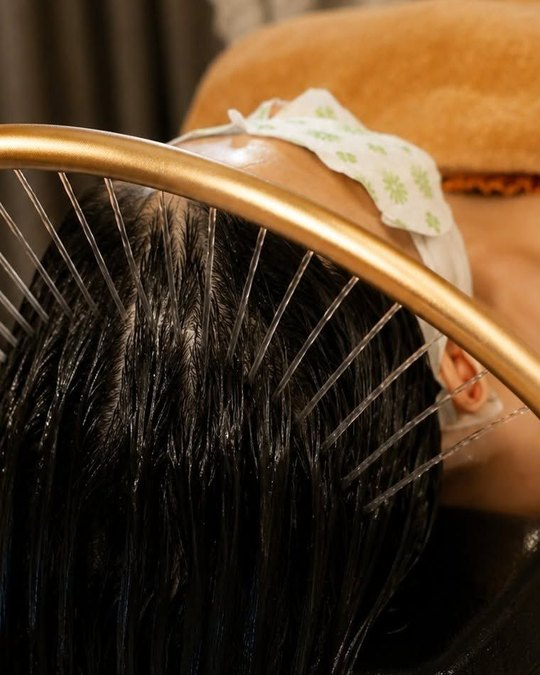
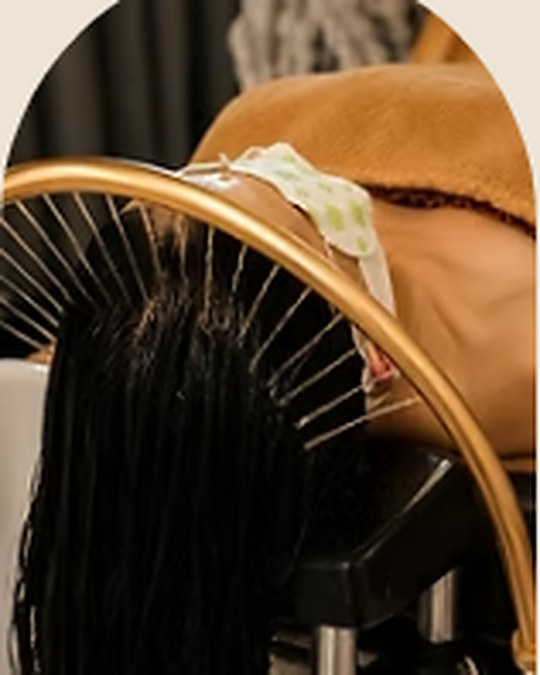
What happens section: use the brand's own ritual photos
Claude-Session: https://claude.ai/code/session_01DdZmgJjXHVTRRywqeHU6iL

diff --git a/index.html b/index.html
@@ -288,25 +288,25 @@
     </div>
     <ol class="ritual-steps">
         <li class="ritual-step">
-          <img src="assets/img/ritual/foot-bath.jpg" alt="Feet resting in a warm herbal foot bath" loading="lazy" width="540" height="675">
+          <img src="assets/img/ritual/foot-bath.jpg" alt="Feet resting in a warm herbal foot bath with orange slices" loading="lazy" width="540" height="675">
           <p class="ritual-num"><span>01</span></p>
           <h3>The foot bath</h3>
-          <p>Warm water, herbs and Epsom salts while you settle in. Your body starts to slow down before we touch your hair.</p>
+          <p>Warm water, herbs and fresh citrus while you settle in. Your body starts to slow down before we touch your hair.</p>
         </li>
         <li class="ritual-step">
-          <img src="assets/img/ritual/facial.jpg" alt="Guest relaxing during a facial with jade rollers" loading="lazy" width="540" height="675">
+          <img src="assets/img/ritual/settle-in.jpg" alt="Guest lying back with eyes closed under a Gold Class towel" loading="lazy" width="540" height="675">
           <p class="ritual-num"><span>02</span></p>
-          <h3>Steam and facial</h3>
-          <p>Gentle steam opens the skin, then a radiance facial cleanses and refreshes while you rest.</p>
+          <h3>Settle in</h3>
+          <p>Lie back, close your eyes and let us take over. Gentle steam and a radiance facial begin while you rest.</p>
         </li>
         <li class="ritual-step">
-          <img src="assets/img/ritual/scalp.jpg" alt="Therapist massaging the scalp during the shampoo" loading="lazy" width="540" height="675">
+          <img src="assets/img/ritual/cleanse.jpg" alt="Therapist working shampoo foam through the hair" loading="lazy" width="540" height="675">
           <p class="ritual-num"><span>03</span></p>
           <h3>Cleanse and scalp massage</h3>
           <p>A shampoo matched to your scalp, worked in slowly with a deep, unhurried scalp massage.</p>
         </li>
         <li class="ritual-step">
-          <img src="assets/img/ritual/halo.jpg" alt="Waterfall halo pouring warm water over the scalp" loading="lazy" width="540" height="675">
+          <img src="assets/img/ritual/halo.jpg" alt="Gold waterfall halo pouring warm water over the scalp" loading="lazy" width="540" height="675">
           <p class="ritual-num"><span>04</span></p>
           <h3>The waterfall halo</h3>
           <p>Warm water falls in fine streams across your scalp, again and again. The moment most guests remember.</p>
@@ -315,10 +315,10 @@
           <img src="assets/img/ritual/massage.jpg" alt="Therapist massaging the neck and shoulders" loading="lazy" width="540" height="675">
           <p class="ritual-num"><span>05</span></p>
           <h3>The massage</h3>
-          <p>Neck, shoulders and arms, eased with slow, steady pressure. The 90 minute ritual gives you more of it.</p>
+          <p>Head, neck and shoulders, eased with slow, steady pressure. The 90 minute ritual gives you more of it.</p>
         </li>
     </ol>
-    <p class="fine ritual-fine">Shown for the 60 and 90 minute rituals. The 30 minute Essential focuses on the cleanse, scalp massage, neck massage and waterfall halo.</p>
+    <p class="fine ritual-fine">Shown for the 60 and 90 minute rituals. The 30 minute Essential focuses on the cleanse, scalp massage, neck massage, waterfall halo and blow dry.</p>
 
     <div class="section-head after-head">
       <div>
@@ -329,19 +329,19 @@
     </div>
     <ul class="after-list">
         <li class="after-item">
-          <img src="assets/img/ritual/blow-dry.jpg" alt="Guest having her hair blow dried after the head spa" loading="lazy" width="540" height="675">
+          <img src="assets/img/ritual/blow-dry.jpg" alt="Guest smiling while her hair is blow dried" loading="lazy" width="540" height="675">
           <h3>Dried and finished.</h3>
           <p>A gentle ionic blow dry, so you leave with clean, soft, finished hair.</p>
         </li>
         <li class="after-item">
-          <img src="assets/img/ritual/vanity.jpg" alt="Guests at the vanity after their treatment" loading="lazy" width="540" height="675">
-          <h3>Time at the vanity.</h3>
-          <p>Brush, style and freshen up at our vanity before you head back into your day.</p>
+          <img src="assets/img/ritual/tea.jpg" alt="Tea being poured into a glass cup" loading="lazy" width="540" height="675">
+          <h3>A cup of tea.</h3>
+          <p>Sit for a few quiet minutes with warm tea while you come back to the day.</p>
         </li>
         <li class="after-item">
-          <img src="assets/img/ritual/after.jpg" alt="Guest smiling in the mirror after her head spa" loading="lazy" width="540" height="675">
-          <h3>Walk out lighter.</h3>
-          <p>Calmer, glowing and cared for. Ready for the rest of your day.</p>
+          <img src="assets/img/ritual/aftercare.jpg" alt="Professional hair and skin care products" loading="lazy" width="540" height="675">
+          <h3>Aftercare, worked in.</h3>
+          <p>We finish with the professional products we use in the room, while your hair is still warm.</p>
         </li>
     </ul>
   </div>
